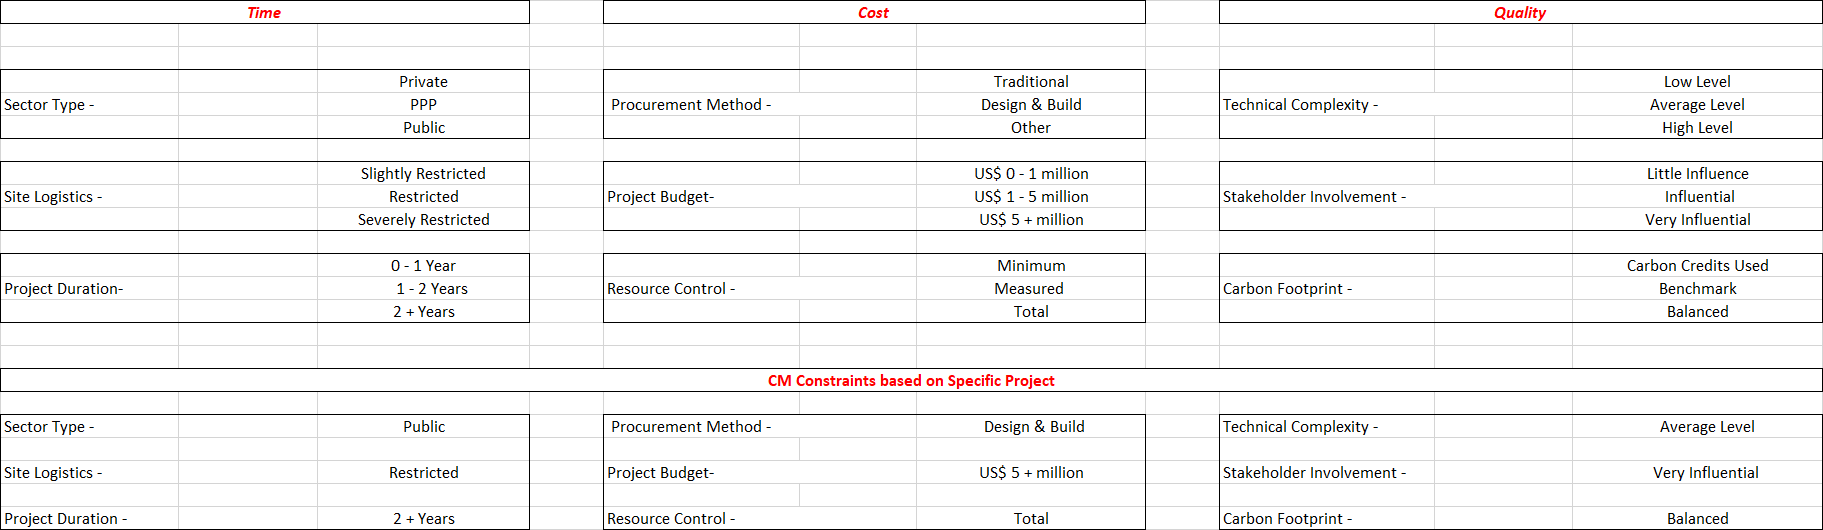
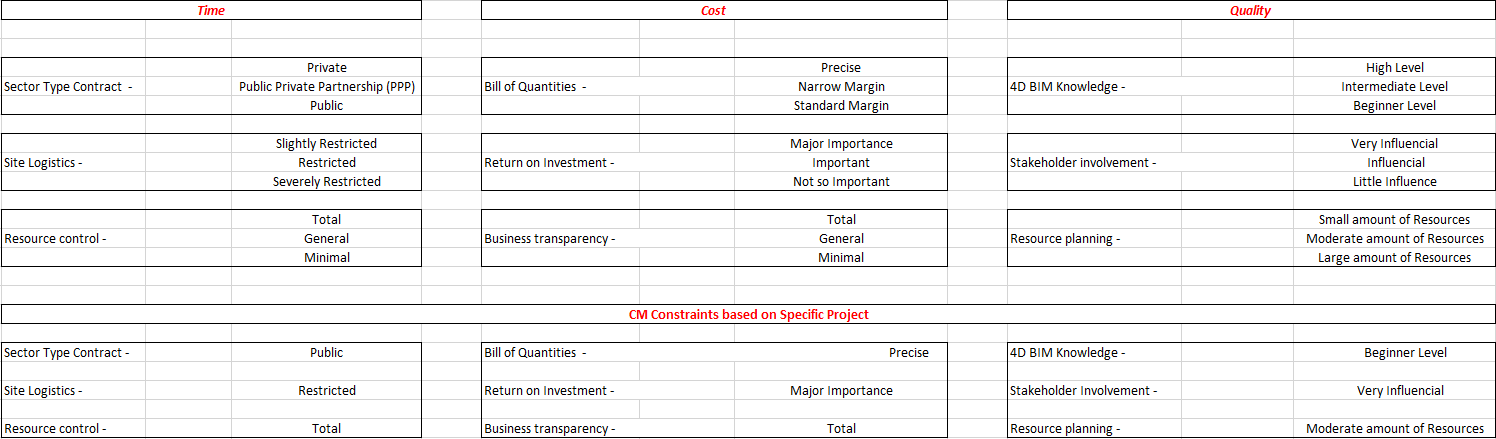
update changes

diff --git a/templates/score.html b/templates/score.html
@@ -2,85 +2,117 @@
 {% import "bootstrap/wtf.html" as wtf %}
 
 {% block head %}
-<meta charset="UTF-8" />
-<meta content="An analytical process has been developed, which incorporates a decision support system (DSS). Used to aid in the decision making process to decide, which 4D BIM software application (synchro, navisworks asta or powerproject) is best suited to a construction project, established from a project specific set of requirements." name="description">
-<meta content="4D BIM, synchro, asta power project & navisworks" name="keywords">
-{{ super() }}
+    <meta charset="UTF-8" />
+    <meta content="An analytical process has been developed, which incorporates a decision support system (DSS). Used to aid in the decision making process to decide, which 4D BIM software application (synchro, navisworks asta or powerproject) is best suited to a construction project, established from a project specific set of requirements." name="description">
+    <meta content="4D BIM, synchro, asta power project & navisworks" name="keywords">
+    {{ super() }}
 {% endblock %}
 
 {% block title %}
-Score Project
+    Score Project
 {% endblock %}
 
 {% block navbar %}
-{{ nav.mynavbar.render(renderer='inverted') }}
+    {{ nav.mynavbar.render(renderer='inverted') }}
 {% endblock %}
 {% block content %}
-<link rel="stylesheet" href="{{ url_for('static', filename='css/style.css') }}">
-<div class="container">
-    <div class="row">
-        <div class="col-sm-6">
-            <h1>Projects</h1>
-            <div class="list-group">
-                {% for project in projects %}
-                    {% if project['id']==project_id %}
-                        <a href="{{ url_for('score', project_id=project['id'])}}" class="list-group-item active">{{project['title']}}</a>
-                    {% else %}
-                        <a href="{{ url_for('score', project_id=project['id'])}}" class="list-group-item">{{project['title']}}</a>
-                    {% endif %}
-                {% endfor %}
+    <link rel="stylesheet" href="{{ url_for('static', filename='css/style.css') }}">
+    <div class="container">
+        <div class="row">
+            <div class="col-sm-12 text-center">
+                <p style="font-size: 14pt; font-weight: bold; text-align: center;">Legend</p>
+                <p style="color: darkred; text-align: center;">Project Details</p>
+                <p style="color: darkblue; text-align: center;">Project Restrictions</p>
+                <p style="color: darkgreen; text-align: center;">Project Based 4D BIM Attributes</p>
             </div>
-            {% if images is not none %}
-                <h3>Images</h3>
+            <div class="col-sm-6">
+                <h1>Projects</h1>
                 <div class="list-group">
-                    {% for image in images %}
-                        <a class="btn btn-info" href="{{ url_for('static', filename='upload/img/%s'%image) }}" class="list-group-item">{{image}}</a>
-                        <img style="max-width:200pt; max-height: 200pt;" src="{{ url_for('static', filename='upload/img/%s'%image) }}" class="list-group-item">
+                    {% for project in projects %}
+                        {% if project['id']==project_id %}
+                            <a href="{{ url_for('score', project_id=project['id'])}}" class="list-group-item active">{{project['title']}}</a>
+                        {% else %}
+                            <a href="{{ url_for('score', project_id=project['id'])}}" class="list-group-item">{{project['title']}}</a>
+                        {% endif %}
                     {% endfor %}
                 </div>
-            {% endif %}
-            {% if files is not none %}
-                <h3>Files</h3>
-                <div class="list-group">
-                    {% for file in files %}
-                        <a class="btn btn-info" href="{{ url_for('static', filename='upload/file/%s'%file) }}" class="list-group-item">{{file}}</a>
-                    {% endfor %}
-                </div>
-            {% endif %}
-            {% if project_id is not none %}
-            <a href="https://www.surveymonkey.com/r/2XG8VNJ">4D BIM Professional's opinions of current & proposed methods of the 4D BIM Decision Support System - Multiple choice</a>
-            <br>
-            <br>
-            <a href="https://www.surveymonkey.com/r/V3BT3FC">4D BIM Professional opinions of current & proposed methods of the 4D BIM Decision Support System - Questions</a>
-            <br>
-            <br>
-            <a href="https://www.surveymonkey.com/r/2YKV8RD">4D BIM Professional's opinions of current & proposed methods of the 4D BIM Decision Support System - Multiple choice</a>
-            <br>
-            <br>
-            <a href="https://www.surveymonkey.com/r/2D6LL7G">4D BIM Professional's opinions of the influence of 4D BIM on improving construction management. - Questions</a>
-            <br>
-            <br>
-            {% endif %}
-        </div>
-        <div class="col-sm-6">
-        {% if project_id is none %}
-            <div class="alert alert-warning" role="alert">Please select project to score</div>
-        {% else %}
-            {% if info is not none %}
-                <div class="alert alert-success" role="alert">{{ info }}</div>
-            {% endif %}
-            <form method="POST" action="" autocomplete="off" enctype="multipart/form-data">
-                <dl>
-                    {{ wtf.quick_form(form) }}
-                    <input class="btn btn-primary" type="submit" value="Update">
-                </dl>
-            </form>
-        {% endif %}
+                {% if images is not none %}
+                    <h3>Images</h3>
+                    <div class="list-group">
+                        {% for image in images %}
+                            <a class="btn btn-info" href="{{ url_for('static', filename='upload/img/%s'%image) }}" class="list-group-item">{{image}}</a>
+                            <img style="max-width:200pt; max-height: 200pt;" src="{{ url_for('static', filename='upload/img/%s'%image) }}" class="list-group-item">
+                        {% endfor %}
+                    </div>
+                {% endif %}
+                {% if files is not none %}
+                    <h3>Files</h3>
+                    <div class="list-group">
+                        {% for file in files %}
+                            <a class="btn btn-info" href="{{ url_for('static', filename='upload/file/%s'%file) }}" class="list-group-item">{{file}}</a>
+                        {% endfor %}
+                    </div>
+                {% endif %}
+                {% if project_id is not none %}
+                    <a href="https://www.surveymonkey.com/r/2XG8VNJ">4D BIM Professional's opinions of current & proposed methods of the 4D BIM Decision Support System - Multiple choice</a>
+                    <br>
+                    <br>
+                    <a href="https://www.surveymonkey.com/r/V3BT3FC">4D BIM Professional opinions of current & proposed methods of the 4D BIM Decision Support System - Questions</a>
+                    <br>
+                    <br>
+                    <a href="https://www.surveymonkey.com/r/2YKV8RD">4D BIM Professional's opinions of current & proposed methods of the 4D BIM Decision Support System - Multiple choice</a>
+                    <br>
+                    <br>
+                    <a href="https://www.surveymonkey.com/r/2D6LL7G">4D BIM Professional's opinions of the influence of 4D BIM on improving construction management. - Questions</a>
+                    <br>
+                    <br>
+                {% endif %}
+            </div>
+            <div class="col-sm-6">
+                {% if project_id is none %}
+                    <div class="alert alert-warning" role="alert">Please select project to score</div>
+                {% else %}
+                    {% if info is not none %}
+                        <div class="alert alert-success" role="alert">{{ info }}</div>
+                    {% endif %}
+                    <form method="POST" action="" autocomplete="off" enctype="multipart/form-data">
+                        {{ form.hidden_tag() }}
+                        <dl>
+                            {#{{ wtf.quick_form(form) }}#}
+                            {% for field in form %}
+                                <div class="form-group">
+                                    {% if field.name == 'cm_restriction1' %}
+                                        <p style="font-size: 14pt; font-weight: bold; text-align: center;">TIME</p>
+                                    {% elif field.name == 'cm_restriction4' %}
+                                        <p style="font-size: 14pt; font-weight: bold; text-align: center;">COST</p>
+                                    {% elif field.name == 'cm_restriction7' %}
+                                        <p style="font-size: 14pt; font-weight: bold; text-align: center;">QUALITY</p>
+                                    {% endif %}
+                                    {% if field.name in 'title,organisation_url,country,city,local_authority,involvement,date_of_project,application,version,email' %}
+                                        {{ field.label(class='control-label label-red') }}
+                                        {{ field(class='form-control') }}
+                                    {% elif 'cm_restriction' in field.name %}
+                                        {{ field.label(class='control-label label-blue') }}
+                                        {{ field(class='form-control') }}
+                                        {#{{ wtf.form_field(field, class='form-control label-blue') }}#}
+                                    {% elif 'attribute' in field.name %}
+                                        {{ field.label(class='control-label label-green') }}
+                                        {{ field(class='form-control') }}
+                                    {% elif field.name != 'csrf_token' %}
+                                        {{ wtf.form_field(field, class='form-control') }}
+                                    {% endif %}
+                                </div>
+
+                            {% endfor %}
+
+                            <input class="btn btn-primary" type="submit" value="Update">
+                        </dl>
+                    </form>
+                {% endif %}
+            </div>
         </div>
     </div>
-</div>
 {% endblock %}
-
 {% block scripts %}
-{{ super() }}
+    {{ super() }}
 {% endblock %}

diff --git a/templates/instruction.html b/templates/instruction.html
@@ -73,7 +73,7 @@ Improving Construction Management with 4D BIM
     </ul>
     <br>
     <p class="bim-page-sub-title">Decision Support System Instructions</p>
-    <p style="font-size:14pt; font-weight: bold;">Decision Support System: Recommendation</p>
+    <p style="font-size:14pt; font-weight: bold;">Decision Support System: Project Based Recommendation Required</p>
     <ul>
         <p>This enables a user requiring a recommendation for, which 4D BIM software application (synchro, navisworks or asta powerproject) is best suited to their project, based on that projects specific set of constraints. A person seeking a recommendation is asked to define a planned project’s set of specific constraints. If a suitable match(s) is found within the DSS, which contains a number of archived projects (a suitable match will consist of a project with an identical set of defined CM constraints).</p>
         <div align="center">
@@ -85,7 +85,7 @@ Improving Construction Management with 4D BIM
         <p>There are two links that accompany a recommendation, directing a user to answer a survey. A user is encouraged to offer their opinions on the current and proposed methods used when choosing a 4D BIM software application, opinions of the 4D BIM DSS itself and the users views on the role that 4D BIM plays in CM. There are a set of questions with two different ways to answer, i.e. multi-choice selection and open-ended answers. Allowing a user to choose to answer one or both methods of answering.</p>
     </ul>
     <br>
-    <p style="font-size:14pt; font-weight: bold;">Decision Support System: Add project</p>
+    <p style="font-size:14pt; font-weight: bold;">4D BIM Expert – Add Project Details</p>
     <ul>
         <p>A 4D BIM professional is asked to provide information regarding a specific 4D BIM project, which they have been involved with. The information required will include: project title & organisation, project and/or organisation URL, project location defined by country, city and local authority, professional involvement, date of project completion, 4D BIM software application used (synchro, navisworks or asta powerproject), software application version and a contact email. By selecting the add button at the bottom of the page, the 4D BIM professional’s project details are automatically emailed to the administration to verify the projects legitimacy (this information, except the email address will appear with a recommendation).</p>
         <p>The second set of links enables the 4D BIM professional to offer judgement and to provide feedback, regarding their opinions on the 4D BIM software application used for the project that they were involved with and its ability to improve CM. There are a set of questions with two different ways to answer, i.e. multi-choice selection and open-ended answers. Allowing a user to choose to answer one or both methods of answering.</p>

diff --git a/templates/attributes.html b/templates/attributes.html
@@ -57,14 +57,13 @@
     <br>
     <br>
     <p align="middle" class="bim-page-sub-title" style="font-style: italic">Cost</p>
-    <p style="font-size: 14pt; font-weight: bold; text-align: center;">Animations</p>
-    <li>graphical material resource manipulation</li>
-    <li>collaboration through visualisation techniques</li>
-    <li>integrate and consolidate information</li>
-    <li>intuitive schedule based level of detail (LOD)</li>
-    <li>work flow integration</li>
-    <li>safety training</li>
-    <li>development of operation and maintenance (O & M) strategy for the built asset (facility management (FM))</li>
+    <p style="font-size: 14pt; font-weight: bold; text-align: center;">Cost Analysis</p>
+    <li>schedule + resource manipulation</li>
+    <li>workflow integration</li>
+    <li>development of operation and maintenance (0&M) strategy for the built asset</li>
+    <li>development of a facility management (FM) strategy for the built asset</li>
+    <li>integrated financial analysis in real-time to facilitate continuous development of a financial strategy</li>
+    <li>collaboration across AEC sectors to integrate financial data</li>
     <br>
     <p style="font-size: 14pt; font-weight: bold; text-align: center;">Data control</p>
     <li>data definition structure</li>

diff --git a/static/css/style.css b/static/css/style.css
@@ -116,3 +116,15 @@ li {
         display: block;
     }
 }
+
+.form-group .label-red {
+    color: darkred;
+}
+
+.form-group .label-blue {
+    color: darkblue;
+}
+
+.form-group .label-green {
+    color: darkgreen;
+}

diff --git a/__init__.py b/__init__.py
@@ -224,12 +224,18 @@ class ScoreForm(FlaskForm):
     cm_restriction1 = SelectField('Procurement', choices=[(0, 'Private'), (1, 'PPP'), (2, 'Public')], coerce=int)
     cm_restriction2 = SelectField('Site Logistics', choices=[(0, 'Slightly Restricted'), (1, 'Restricted'), (2, 'Severely Restricted')], coerce=int)
     cm_restriction3 = SelectField('Resource control', choices=[(0, 'Total'), (1, 'General'), (2, 'Minimal')], coerce=int)
-    cm_restriction4 = SelectField('Bill of Quantities', choices=[(0, 'Precise'), (1, 'Narrow Margin'), (2, 'Standard Margin')], coerce=int)
-    cm_restriction5 = SelectField('Return on Investment', choices=[(0, 'Major Importance'), (1, 'Important'), (2, 'Not so Important')], coerce=int)
-    cm_restriction6 = SelectField('Business transparency', choices=[(0, 'Total'), (1, 'General'), (2, 'Minimal')], coerce=int)
+
     cm_restriction7 = SelectField('4D BIM knowledge', choices=[(0, 'High Level'), (1, 'Intermediate Level'), (2, 'Beginner Level')], coerce=int)
     cm_restriction8 = SelectField('Stakeholder involvement', choices=[(0, 'Very Influencial'), (1, 'Influencial'), (2, 'Little Influencial')], coerce=int)
     cm_restriction9 = SelectField('Resource planning', choices=[(0, 'Large amount of Resources'), (1, 'Moderate amount of Resources'), (2, 'Small amount of Resources')], coerce=int)
+
+    cm_restriction4 = SelectField('Bill of Quantities',
+                                  choices=[(0, 'Precise'), (1, 'Narrow Margin'), (2, 'Standard Margin')], coerce=int)
+    cm_restriction5 = SelectField('Return on Investment',
+                                  choices=[(0, 'Major Importance'), (1, 'Important'), (2, 'Not so Important')],
+                                  coerce=int)
+    cm_restriction6 = SelectField('Business transparency', choices=[(0, 'Total'), (1, 'General'), (2, 'Minimal')],
+                                  coerce=int)
     attribute1 = SelectField('Schedule vs actual (WIP)', choices=[(x, str(x)) for x in range(11)], coerce=int)
     attribute2 = SelectField('Discreet event simulation', choices=[(x, str(x)) for x in range(11)], coerce=int)
     attribute3 = SelectField('Simulation', choices=[(x, str(x)) for x in range(11)], coerce=int)
@@ -828,8 +834,8 @@ def mynavbar():
                               View('Log out', 'user.logout')))
     else:
         items.append(Subgroup('Decision Support System',
-                              View('Recommendation', 'recommend'),
-                              View('Add Project', 'add')))
+                              View('Project Based Recommendation Require', 'recommend'),
+                              View('4D BIM Expert - Add Project Details', 'add')))
         items.append(Subgroup('Log in',
                               View('Log in', 'user.login')))
 
@@ -862,15 +868,15 @@ def send_email(receiver_email, project):
     password = "111Munster!!!"
 
     message = """Project Title & Organisation: %s
-Organisation URL: %s
-Country: %s
-City: %s
-Local Authority: %s
-Individual Project Involvement: %s
-Date of Project Completion: %s
-4D Software Application Used: %s
-Software Application Version: %s
-E-mail: %s"""
+                Organisation URL: %s
+                Country: %s
+                City: %s
+                Local Authority: %s
+                Individual Project Involvement: %s
+                Date of Project Completion: %s
+                4D Software Application Used: %s
+                Software Application Version: %s
+                E-mail: %s"""
 
     server = smtplib.SMTP_SSL(smtp_server, port)
     server.login(sender_email, password)
